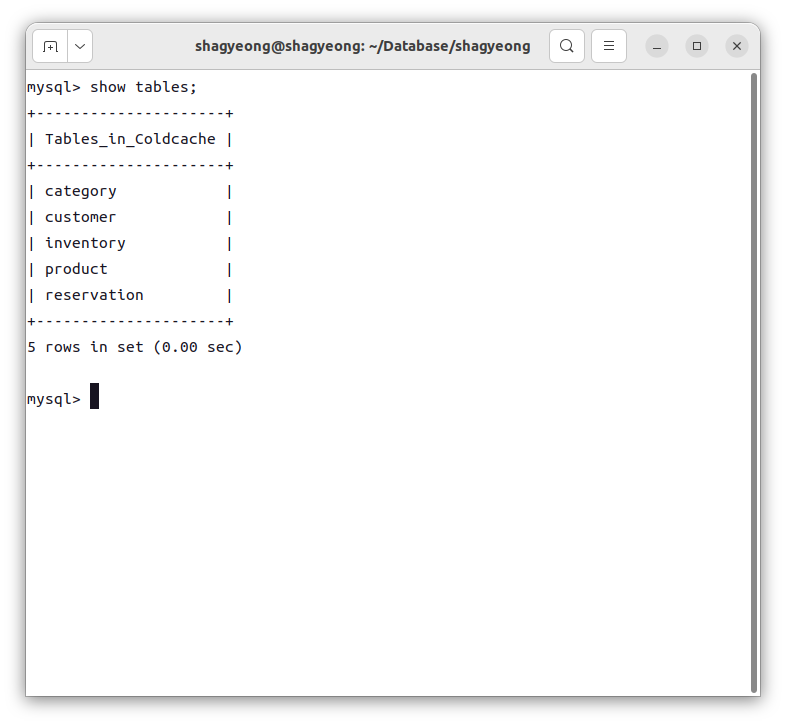
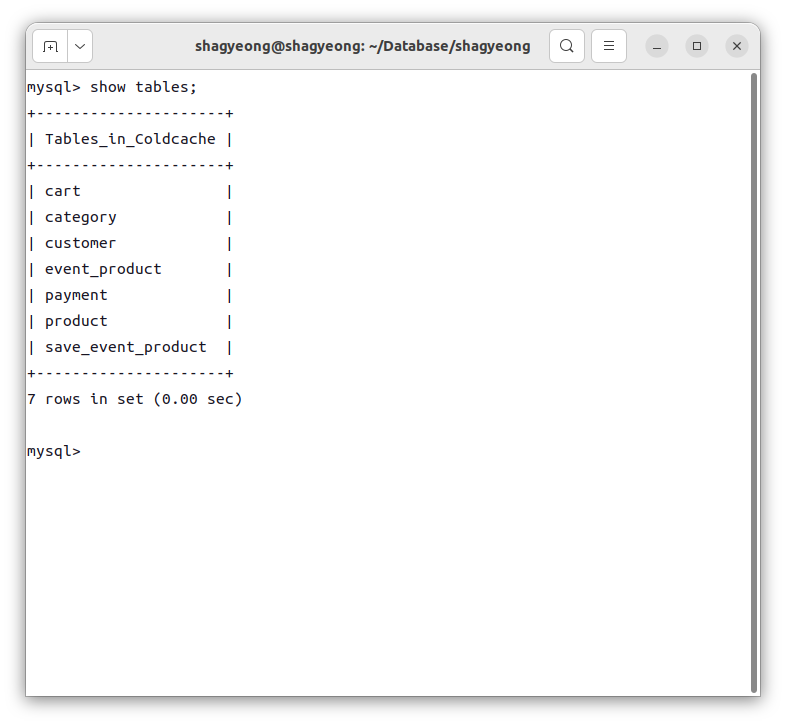
update: 2024-11-28

Changed region(s): [[0.0305, 0.2428, 0.3053, 0.4855], [0.0305, 0.5159, 0.3053, 0.5766], [0.0305, 0.6069, 0.0916, 0.6372]]

diff --git a/shagyeong/readme.md b/shagyeong/readme.md
@@ -41,14 +41,19 @@
 * 행사 여부에 관계없이 장바구니에서 구매시 상품 튜플이 삽입됨
 * 본인의 결제 내역 조회시 customer_id로 select
 #### event_product(행사 상품)
-* <u>product_id</u>
-* description : 행사 내용(1+1, 2+1, 10% 할인 등등)
-* duration varchar(23) : 행사 기간 0000-00-00 ~ 0000-00-00 형태
+* 속성
+    * <u>product_id</u>
+    * event_description : 행사 내용(1+1, 2+1, 10% 할인 등등)
+    * duration varchar(23) : 행사 기간 0000-00-00 ~ 0000-00-00 형태
+* 'description'이 MySQL 예약어로 존재하여 속성명 변경 'description' -> 'event_description'
 #### save_event_product(증정품 보관함)
-* 장바구니에서 행사 상품 구매시 상품 튜플이 삽입됨
+* 속성
+    * <u>customer_id</u>
+    * <u>product_id</u>
+    * quantity : 수량
 #### *마이페이지*
 <!-- 로그인 구현시 사용자 정보 띄움 -->
-### *inventory(재고 관리)*
+#### *inventory(재고 관리)*
 <!--* <u>product_id varchar(10)</u> : 상품 ID
 * <u>expire_date varchar(10)</u> : 유통기한 0000-00-00 형태
 * stock_quantity decimal(10) : 재고
@@ -58,6 +63,10 @@
 ### show tables<br><img src='./sqldemo/show_tables.png'>
 ### category<br><img src='./sqldemo/category.png'>
 ### product<br><img src='./sqldemo/product.png'>
-### inventory<br><img src='./sqldemo/inventory.png'>
+<!-- ### inventory<br><img src='./sqldemo/inventory.png'> -->
 ### customer<br><img src='./sqldemo/customer.png'>
 ### reserves<br><img src='./sqldemo/reserves.png'>
+### cart<br><img src='./sqldemo/cart.png'>
+### payment<br><img src='./sqldemo/payment.png'>
+### event_product<br><img src='./sqldemo/event_product.png'>
+### save_event_product<br><img src='./sqldemo/save_event_product.png'>
